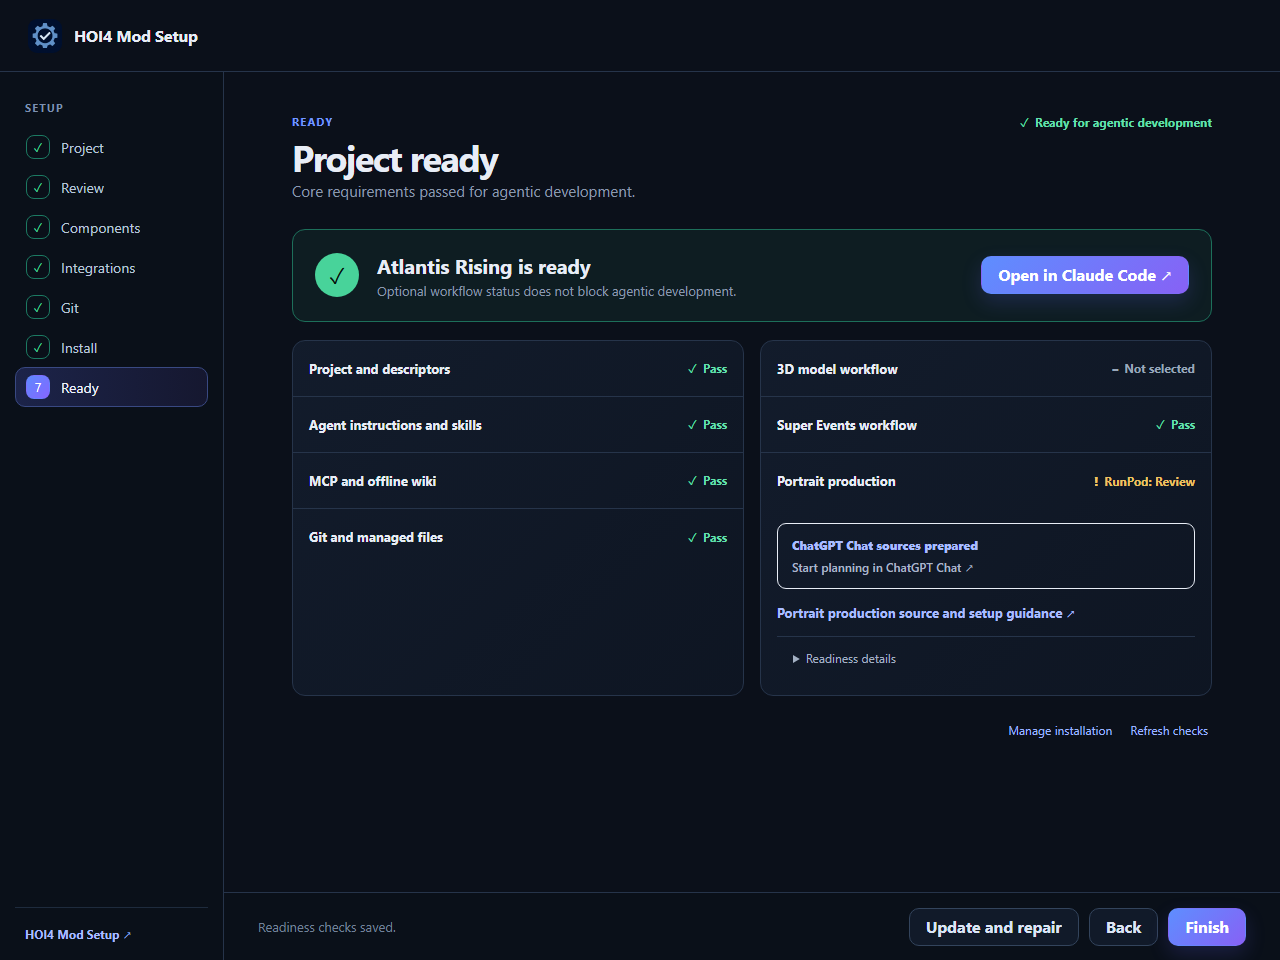
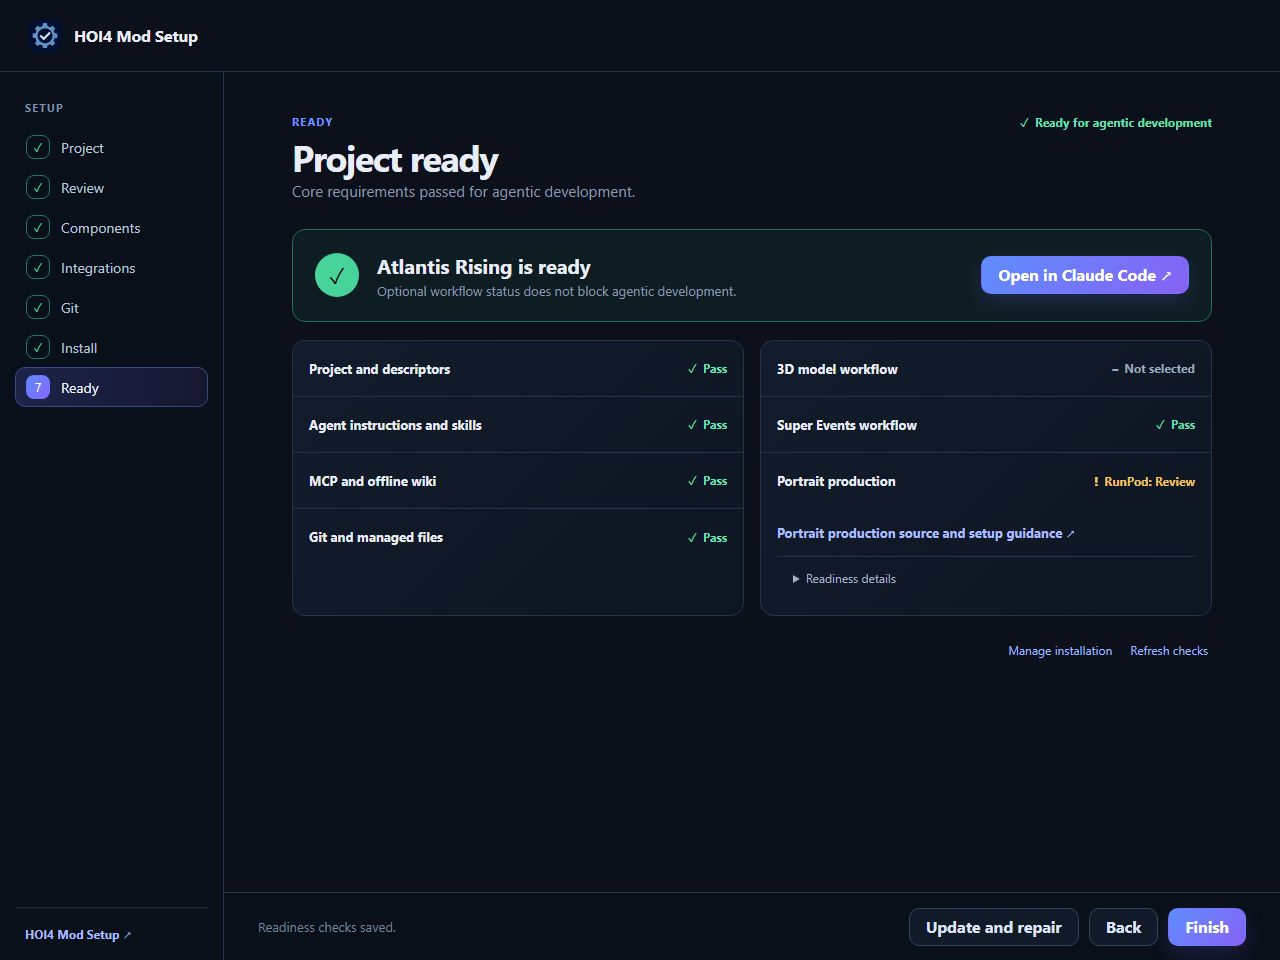
fix: keep ChatGPT source packaging secondary to project readiness

Changed region(s): [[0.5938, 0.5312, 0.9375, 0.6875], [0.7812, 0.75, 0.9375, 0.7812]]

diff --git a/src/App.tsx b/src/App.tsx
@@ -3219,7 +3219,7 @@ export function DryRun({ state, update }: { state: WizardState; update: (patch: 
     : componentId === "workflow.3d"
       ? "Check the 3D workflow"
       : "Check an installed integration";
-  return <div className="stack"><div className="metric-grid"><Metric label="Create" value={plan ? String(counts.create) : "—"} tone={plan ? "pass" : "info"} /><Metric label="Update" value={plan ? String(counts.update) : "—"} tone={plan ? "info" : "muted"} /><Metric label="Skip" value={plan ? String(counts.skip) : "—"} tone={plan ? "review" : "muted"} /><Metric label="Conflicts" value={plan ? String(unresolved) : "—"} tone={plan ? unresolved ? "block" : "pass" : "info"} /></div><div className="two-column"><section className="panel"><PanelTitle title="Plan summary" /><ChangeRow title="Add development tools" detail="Skills, instructions, configuration, and offline wiki" value={planStatus} /><ChangeRow title={state.mode === "new" ? "Project instructions" : "Update project instructions"} detail={state.mode === "new" ? "Adapted to this mod" : "Keeps your existing edits"} status={plan ? state.mode === "new" ? "Ready" : "Review if modified" : "Pending"} /><ChangeRow title="Configure integrations" detail="Selected tools only" value={plan ? "Ready" : "Pending"} /><ChangeRow title="Git setup" detail={`${state.gitBranch} · local changes`} value={plan ? "Ready" : "Pending"} /><ChangeRow title="Online Git" detail="Runs only after setup" value={plan ? onlineActionLabel : "Pending"} />{state.flattenForChat && <ChangeRow title="ChatGPT project files" detail="Selected in Components" value={flattenedSummary} />}{plan && <details open={showFilePlan} onToggle={(event) => setShowFilePlan(event.currentTarget.open)}><summary>Files and folders to install · {plan.operations.length + profileDirectories.length}</summary>{showFilePlan && <div className="manifest-details file-plan-list">{profileDirectories.map((directory) => <div key={`directory-${directory}`}><strong>{directory}/</strong><small>Create folder</small></div>)}{plan.operations.map((operation) => <div key={operation.id}><strong>{operation.destination}</strong><small>{operation.action === "create" || operation.action === "generate" ? "Add" : operation.action === "replace" || operation.action === "merge" ? "Update" : operation.action === "rename" ? "Keep both" : operation.action === "skip" ? "Keep current" : operation.action === "delete_managed" ? "Remove" : "Check"}</small></div>)}</div>}</details>}{setupChecks.length > 0 && <details><summary>Setup checks</summary><div className="manifest-details">{setupChecks.map((action) => <details key={action.id}><summary>{setupCheckLabel(action.component_id)}</summary><small>Runs automatically after the files are installed.</small><small>Command: {action.display_command ?? action.command_source}</small><small>Folder: {action.working_directory ?? "Project folder"}</small><small>Environment: {action.environment_names?.join(", ") || "None"}</small><small>Expected changes: {action.expected_writes?.join(", ") || "None"}</small></details>)}</div></details>}{!plan && <p className="muted">Prepare the changes before installation.</p>}</section><section className="panel"><PanelTitle title="Before setup" />{state.flattenForChat && flattenedFiles.length > 0 && <details><summary>ChatGPT folder · {flattenedSummary}</summary><div className="manifest-details flattened-file-list">{flattenedFiles.map((artifact) => { const bytes = artifact.bytes?.length ?? new TextEncoder().encode(artifact.content).length; return <div key={artifact.destination}><strong>{artifact.destination.replace("chatgpt_project_sources/", "")}</strong><small>{formatScanBytes(bytes)}</small></div>; })}</div></details>}<CheckRow label="Existing files saved" status={plan ? "Ready" : "Pending"} tone={plan ? "pass" : "info"} /><CheckRow label="Setup checks" status={plan ? setupChecks.length ? `${setupChecks.length} included` : "None needed" : "Pending"} tone={plan ? "pass" : "info"} /><CheckRow label="Unresolved conflicts" status={plan ? String(unresolved) : "Pending"} tone={plan ? unresolved ? "block" : "pass" : "info"} /></section></div></div>;
+  return <div className="stack"><div className="metric-grid"><Metric label="Create" value={plan ? String(counts.create) : "—"} tone={plan ? "pass" : "info"} /><Metric label="Update" value={plan ? String(counts.update) : "—"} tone={plan ? "info" : "muted"} /><Metric label="Skip" value={plan ? String(counts.skip) : "—"} tone={plan ? "review" : "muted"} /><Metric label="Conflicts" value={plan ? String(unresolved) : "—"} tone={plan ? unresolved ? "block" : "pass" : "info"} /></div><div className="two-column"><section className="panel"><PanelTitle title="Plan summary" /><ChangeRow title="Add development tools" detail="Skills, instructions, configuration, and offline wiki" value={planStatus} /><ChangeRow title={state.mode === "new" ? "Project instructions" : "Update project instructions"} detail={state.mode === "new" ? "Adapted to this mod" : "Keeps your existing edits"} status={plan ? state.mode === "new" ? "Ready" : "Review if modified" : "Pending"} /><ChangeRow title="Configure integrations" detail="Selected tools only" value={plan ? "Ready" : "Pending"} /><ChangeRow title="Git setup" detail={`${state.gitBranch} · local changes`} value={plan ? "Ready" : "Pending"} /><ChangeRow title="Online Git" detail="Runs only after setup" value={plan ? onlineActionLabel : "Pending"} />{plan && <details open={showFilePlan} onToggle={(event) => setShowFilePlan(event.currentTarget.open)}><summary>Files and folders to install · {plan.operations.length + profileDirectories.length}</summary>{showFilePlan && <div className="manifest-details file-plan-list">{profileDirectories.map((directory) => <div key={`directory-${directory}`}><strong>{directory}/</strong><small>Create folder</small></div>)}{plan.operations.map((operation) => <div key={operation.id}><strong>{operation.destination}</strong><small>{operation.action === "create" || operation.action === "generate" ? "Add" : operation.action === "replace" || operation.action === "merge" ? "Update" : operation.action === "rename" ? "Keep both" : operation.action === "skip" ? "Keep current" : operation.action === "delete_managed" ? "Remove" : "Check"}</small></div>)}</div>}</details>}{setupChecks.length > 0 && <details><summary>Setup checks</summary><div className="manifest-details">{setupChecks.map((action) => <details key={action.id}><summary>{setupCheckLabel(action.component_id)}</summary><small>Runs automatically after the files are installed.</small><small>Command: {action.display_command ?? action.command_source}</small><small>Folder: {action.working_directory ?? "Project folder"}</small><small>Environment: {action.environment_names?.join(", ") || "None"}</small><small>Expected changes: {action.expected_writes?.join(", ") || "None"}</small></details>)}</div></details>}{!plan && <p className="muted">Prepare the changes before installation.</p>}</section><section className="panel"><PanelTitle title="Before setup" />{state.flattenForChat && <CheckRow label="ChatGPT source files" status={flattenedSummary} tone="muted" />}{state.flattenForChat && flattenedFiles.length > 0 && <details><summary>ChatGPT folder · {flattenedSummary}</summary><div className="manifest-details flattened-file-list">{flattenedFiles.map((artifact) => { const bytes = artifact.bytes?.length ?? new TextEncoder().encode(artifact.content).length; return <div key={artifact.destination}><strong>{artifact.destination.replace("chatgpt_project_sources/", "")}</strong><small>{formatScanBytes(bytes)}</small></div>; })}</div></details>}<CheckRow label="Existing files saved" status={plan ? "Ready" : "Pending"} tone={plan ? "pass" : "info"} /><CheckRow label="Setup checks" status={plan ? setupChecks.length ? `${setupChecks.length} included` : "None needed" : "Pending"} tone={plan ? "pass" : "info"} /><CheckRow label="Unresolved conflicts" status={plan ? String(unresolved) : "Pending"} tone={plan ? unresolved ? "block" : "pass" : "info"} /></section></div></div>;
 }
 
 function Install({ state }: { state: WizardState }) {
@@ -3435,12 +3435,11 @@ export function Ready({ state, update, onMaintenance }: { state: WizardState; up
             <CheckRow label="Super Events workflow" status={superEvents.status} tone={superEvents.tone} />
             <CheckRow label="Portrait production" status={portraitPipeline.enabled ? `${portraitProviderLabel}: ${portraits.status}` : "Disabled"} tone={portraitPipeline.enabled ? portraits.tone : "muted"} />
           </div>
-          {state.flattenForChat && <div className="callout info chatgpt-ready-callout"><ExternalLink href="https://chatgpt.com"><strong>ChatGPT Chat sources prepared</strong><span>Start planning in ChatGPT Chat <span aria-hidden="true">↗</span></span></ExternalLink></div>}
           {coreReady && portraitPipeline.enabled && <div className="portrait-workflow-note"><ExternalLink href={PORTRAIT_REPOSITORY}>Portrait production source and setup guidance <span aria-hidden="true">↗</span></ExternalLink></div>}
           {coreReady && state.selectedComponents.includes("workflow.live_tools") && <div className="portrait-workflow-note"><ExternalLink href={LIVE_TOOLS_GUIDE}>HOI4 Live Tools setup guide <span aria-hidden="true">↗</span></ExternalLink><small className="muted">Setup installs the live-game server for your user and registers it for the coding clients it finds (see Readiness details for the result); restart your coding client afterwards. The guide is also installed in .claude/skills/hoi4-live-playtest.</small></div>}
           <details>
             <summary>Readiness details</summary>
-            {report ? <div className="manifest-details">{report.checks.map((check) => <div key={check.id}><strong>{check.label}</strong><span>{check.status === "configured" || check.status === "pass" ? "Ready" : check.status === "unsupported_platform" ? "Not available on this computer" : check.status === "planned_unavailable" ? "Optional tool not installed" : check.status === "not_selected" ? "Not selected" : check.blocking ? "Action needed" : "Optional setup incomplete"}</span></div>)}</div> : <p className="muted">Details appear after the checks finish.</p>}
+            {report ? <div className="manifest-details">{report.checks.filter((check) => check.id !== "codex.chat_flatten").map((check) => <div key={check.id}><strong>{check.label}</strong><span>{check.status === "configured" || check.status === "pass" ? "Ready" : check.status === "unsupported_platform" ? "Not available on this computer" : check.status === "planned_unavailable" ? "Optional tool not installed" : check.status === "not_selected" ? "Not selected" : check.blocking ? "Action needed" : "Optional setup incomplete"}</span></div>)}</div> : <p className="muted">Details appear after the checks finish.</p>}
           </details>
         </section>
       </div>

diff --git a/src/App.test.tsx b/src/App.test.tsx
@@ -1364,9 +1364,13 @@ describe("HOI4 Mod Setup wizard", () => {
     expect(screen.getByText(/Comfy Cloud: Not reported/i)).toBeInTheDocument();
   });
 
-  it("links prepared ChatGPT sources directly to ChatGPT Chat", () => {
-    render(<Ready state={{ ...readyState(), flattenForChat: true }} update={vi.fn()} onMaintenance={vi.fn()} />);
-    expect(screen.getByRole("link", { name: /ChatGPT Chat sources prepared/i })).toHaveAttribute("href", "https://chatgpt.com");
+  it("keeps optional ChatGPT source status out of Ready and its details", () => {
+    const state = readyState();
+    render(<Ready state={{ ...state, flattenForChat: true, readiness: { ...state.readiness!, checks: [...state.readiness!.checks, { id: "codex.chat_flatten", label: "ChatGPT Chat sources", status: "incomplete", blocking: false, message: "Optional source folder needs review" }] } }} update={vi.fn()} onMaintenance={vi.fn()} />);
+    fireEvent.click(screen.getByText("Readiness details"));
+    expect(screen.queryByText(/ChatGPT.*sources/i)).not.toBeInTheDocument();
+    expect(screen.queryByRole("link", { name: /ChatGPT/i })).not.toBeInTheDocument();
+    expect(screen.getByRole("button", { name: /Open in Codex/i })).toBeEnabled();
   });
 
   it("moves focus to the new screen heading and names scan progress", async () => {
@@ -2145,7 +2149,7 @@ describe("HOI4 Mod Setup wizard", () => {
     expect(screen.getByText("Check the 3D workflow")).toBeInTheDocument();
   });
 
-  it("shows selected ChatGPT project files for a non-Codex setup assistant", () => {
+  it("keeps ChatGPT sources as a minor setup check for any assistant", () => {
     render(<DryRun state={{
       aiProvider: "deepseek",
       gitBranch: "main",
@@ -2154,7 +2158,8 @@ describe("HOI4 Mod Setup wizard", () => {
       plan: { operations: [], conflicts: [], external_actions: [], generated_artifacts: [] },
     } as unknown as WizardState} update={vi.fn()} />);
 
-    expect(screen.getByText("ChatGPT project files")).toBeInTheDocument();
+    expect(screen.getByText("ChatGPT source files")).toBeInTheDocument();
+    expect(screen.queryByText("ChatGPT project files")).not.toBeInTheDocument();
     expect(screen.getByText("Prepare changes to calculate")).toBeInTheDocument();
   });
 

diff --git a/src/styles.css b/src/styles.css
@@ -355,8 +355,6 @@ details p { margin: 0; padding: 0 16px 16px; line-height: 1.55; }
 .ready-check-list { margin: 0 -16px; }
 .ready-panel-action { width: fit-content; }
 .ready-panel-note { padding: 0 !important; }
-.chatgpt-ready-callout a { display: grid; gap: 4px; }
-.chatgpt-ready-callout span { color: var(--muted-strong); font-weight: 500; }
 .portrait-workflow-note { padding: 0; color: var(--muted-strong); font-size: 13px; line-height: 1.5; overflow-wrap: anywhere; }
 .portrait-workflow-note a { color: #a9bdff; font-weight: 700; text-underline-offset: 3px; }
 .portrait-workflow-note a:hover { color: white; }

diff --git a/docs/33_chatgpt_source_packaging.md b/docs/33_chatgpt_source_packaging.md
@@ -1,0 +1,64 @@
+# ChatGPT source packaging
+
+Accepted product correction: ChatGPT project sources are a minor, optional
+setup check. They do not appear in Ready, its details, or the final completion
+screen. There is no Start planning in ChatGPT card, action, or recommendation.
+This supersedes the earlier final-step handoff wording in the user flows,
+UI requirements, provider/source requirements, and acceptance criteria.
+
+The independent Components choice and reviewed flattened-file operations stay
+available. Install review shows one muted check under Before setup, with the
+file evidence in its disclosure. The existing non-blocking hash check stays in
+Rust; hiding it from Ready does not weaken verification. Existing-project
+management retains its external-folder export tool.
+
+Both Agentic core profiles and coding environments install the manifest-owned
+`runtime.agent_sync` shared-tools component. It now also declares the packager
+so existing managed setups receive it through the normal reviewed closure.
+Selected files are `.tools/README.md`, `.tools/package_chatgpt_project_sources.py`,
+and `.tools/package_chatgpt_project_sources.bat`, with source-owned exact Git-blob
+size and SHA-256 evidence. Modified installed files require ordinary conflict
+review; installation, repair, removal, and rollback use the existing transaction.
+No schema or migration changes are required.
+
+Run `python .tools/package_chatgpt_project_sources.py --dry-run` on Windows or
+macOS to review the selection, then run without `--dry-run` to build it. The
+Windows batch launcher opens the result. Python 3.10 or newer is required.
+The default output is a new Downloads/<project-folder>-chatgpt-project-sources
+folder containing flat loose text files, optional `subagents.zip`, and
+`all-project-sources.zip`. Repeated exports require a new `--output` folder.
+The tool accepts include/exclude globs and JSON configuration; its installed
+README documents the defaults and limits. It does not upload, use credentials,
+or change the project. Review contents before sharing; filename exclusions
+cannot identify every secret.
+
+Validation covers installation into a tiny fixture from the manifest-selected
+file inventory, bundle contents and byte identity, dry-run/config overrides,
+output containment, existing-output refusal, and selected linked-file rejection.
+Ready tests assert that optional source status is absent and the development
+client opener remains available. Install review tests assert the minor check.
+The Ready and Install-review screenshots reflect the revised presentation.
+
+## Concurrent-work handoff
+
+The following files were already dirty in `setup_app_e2e` and were left untouched:
+
+- `docs/02_user_flows.md`: remove the after-setup Chat recommendation.
+- `docs/17_ui_accessibility.md`: remove the direct Ready Chat handoff.
+- `docs/22_acceptance_criteria.md`: replace AI-08, UI-14, and UI-45's final
+  recommendation with the minor setup check and absence from Ready.
+- `src-tauri/src/commands.rs`: remove the now-unused `https://chatgpt.com`
+  browser allowlist entry and its positive assertion; the shared browser bridge
+  remains in use by other fixed links.
+- `docs/31_ai_provider_profiles_and_chat_sources.md`: remove final recommendation
+  wording while retaining independent flattening and existing-project export.
+- `.agents/skills/hoi4-mod-setup-ui-accessibility/SKILL.md`: remove Ready handoff
+  and recommendation requirements; use the supplemental source-packaging guide.
+- `.agents/skills/hoi4-mod-setup-source-manifest/SKILL.md`: link the supplemental
+  source-packaging guide describing the new shared component.
+
+The clean integration skill and owning skill supplements record the recurring contract without modifying
+another job's pending skill changes. Merge the above wording when that job
+finishes. No subagents were used; authentication and semantic analysis were
+unchanged. Native macOS execution and public source publication remain separate
+verification steps.

diff --git a/.agents/skills/hoi4-mod-setup-codex-integration/SKILL.md b/.agents/skills/hoi4-mod-setup-codex-integration/SKILL.md
@@ -232,6 +232,16 @@ are summaries, never filesystem inputs. They remain bound to the core scan ID,
 canonical project root, finding/conflict reference, excerpt hash, and explicit
 evidence approval. Do not relax the generic absolute-path or `.git` rejection.
 
+## Optional ChatGPT sources
+
+Source flattening remains independent of the setup assistant and non-blocking.
+Show it as a minor install check; do not promote source status or a planning
+recommendation on Ready or completion. The manifest installs the reusable
+`.tools/package_chatgpt_project_sources.py` and Windows launcher for later
+user-invoked export. See `docs/33_chatgpt_source_packaging.md` and the UI/source
+skill supplements for the presentation and packaging boundaries. This export
+uses no provider login, model, or credentials.
+
 ## Current implementation boundary
 
 The Rust implementation is in `src-tauri/src/ai.rs` and `src-tauri/src/codex.rs`. It starts only an absolute
@@ -243,7 +253,7 @@ analysis, and confirmation commands
 through `src/lib/tauri.ts`; React never invokes the low-level Tauri bridge.
 `open_codex_login_url` accepts only the validated URL returned by Codex, while
 `open_external_url` accepts the fixed reviewed source, product repository,
-ChatGPT handoff, and Ready-screen portrait URLs. Both routes use the
+and Ready-screen portrait URLs. Both routes use the
 platform-owned browser executable and argument array. The Ready-screen opener
 launches the verified Codex executable with `codex app <project-root>`; do not
 substitute the interactive CLI `--cd` route.
@@ -356,7 +366,7 @@ Cover:
 - provider-neutral optional component recommendations, including the
   `workflow.super_events` registry ID/schema path and selected-vs-unselected
   AGENTS guidance
-- setup-assistant-independent flatten visibility, mapping, collision rejection, secret rejection, and recommendation copy
+- setup-assistant-independent flatten visibility, mapping, collision rejection, secret rejection, and optional setup-check presentation
 
 `pnpm test:codex-live` is an opt-in Windows smoke using the signed installed
 Codex executable named by `HOI4_CODEX_EXECUTABLE`. It reads only the current

diff --git a/README.md b/README.md
@@ -204,9 +204,14 @@ main button opens the project in your primary client: **Open in Claude Code**
 starts Claude Code in a new terminal window in the project folder, and **Open
 in Codex** opens the Codex app when Codex is primary.
 
-If flattened ChatGPT files were selected, the Ready screen links directly to
-[ChatGPT Chat](https://chatgpt.com). When the optional portrait workflow is
-enabled, it also shows its persisted Cloud, Local, or RunPod readiness and
+ChatGPT source files are an optional setup check and stay out of the Ready
+summary. Installed projects include `.tools/package_chatgpt_project_sources.py`
+and its Windows `.bat` launcher. Run `python .tools/package_chatgpt_project_sources.py`
+to build a curated folder and `all-project-sources.zip` in Downloads; use
+`--dry-run`, `--include`, `--exclude`, or `--config` to review and adjust the
+selection. Choose a new `--output` folder for each export. The tool never uploads
+files. See the [source-packaging contract](docs/33_chatgpt_source_packaging.md).
+When the optional portrait workflow is enabled, it also shows its persisted Cloud, Local, or RunPod readiness and
 canonical source guidance, or the explicit Disabled state. RunPod runs
 API-first; computer control is used only when explicitly requested.
 Non-sourced fictional or impossible portraits use the configured image generator. Disabled

diff --git a/.agents/skills/hoi4-mod-setup-source-manifest/chatgpt-source-packaging.md b/.agents/skills/hoi4-mod-setup-source-manifest/chatgpt-source-packaging.md
@@ -1,0 +1,19 @@
+# Installed source-packaging tool
+
+The Agentic repository owns the all-platform `runtime.agent_sync` shared-tools
+component. Both core profiles and coding environments include it. Alongside its
+existing synchronizers, selectively install only its declared `.tools/README.md`, Python script, and Windows batch
+launcher, using generated Git-blob evidence. Never embed a second app-owned copy
+or hand-maintain hashes. This tool uses ordinary managed-file conflict handling,
+staging, rollback, and update behavior; export is invoked separately by the user.
+
+Run the source repository's `scripts/test_chatgpt_sources_package.py` through
+unittest discovery to verify manifest-selected installation and tiny-project
+CLI output, archive bytes, configuration, dry-run, containment, overwrite
+refusal, and links. After committing source, regenerate the canonical manifest
+with `scripts/generate_manifest_evidence.py`, validate it, then synchronize the
+app's bundled manifest and exact audit digests. Public publication remains the
+source repository's existing workflow.
+
+See [the app contract](../../../docs/33_chatgpt_source_packaging.md) and the
+installed `.tools/README.md` for selection defaults and export boundaries.

diff --git a/.agents/skills/hoi4-mod-setup-ui-accessibility/chatgpt-source-packaging.md b/.agents/skills/hoi4-mod-setup-ui-accessibility/chatgpt-source-packaging.md
@@ -1,0 +1,14 @@
+# ChatGPT packaging presentation
+
+Follow [the accepted source-packaging contract](../../../docs/33_chatgpt_source_packaging.md).
+ChatGPT project sources are optional. Show the muted line and expandable file
+evidence under Before setup; keep the Components option independent of the setup
+assistant. Ready, Readiness details, and completion contain no ChatGPT source
+status, planning card, link, or recommendation. Existing-project export remains
+available from project management.
+
+Verify Ready with flattening selected and an incomplete non-blocking source
+check: the primary development-client opener stays available and source copy is
+absent. Verify the install-check line and recapture Ready/Install review using
+the sanitized documentation fixtures. Earlier Ready recommendation requirements
+are superseded by this contract.
